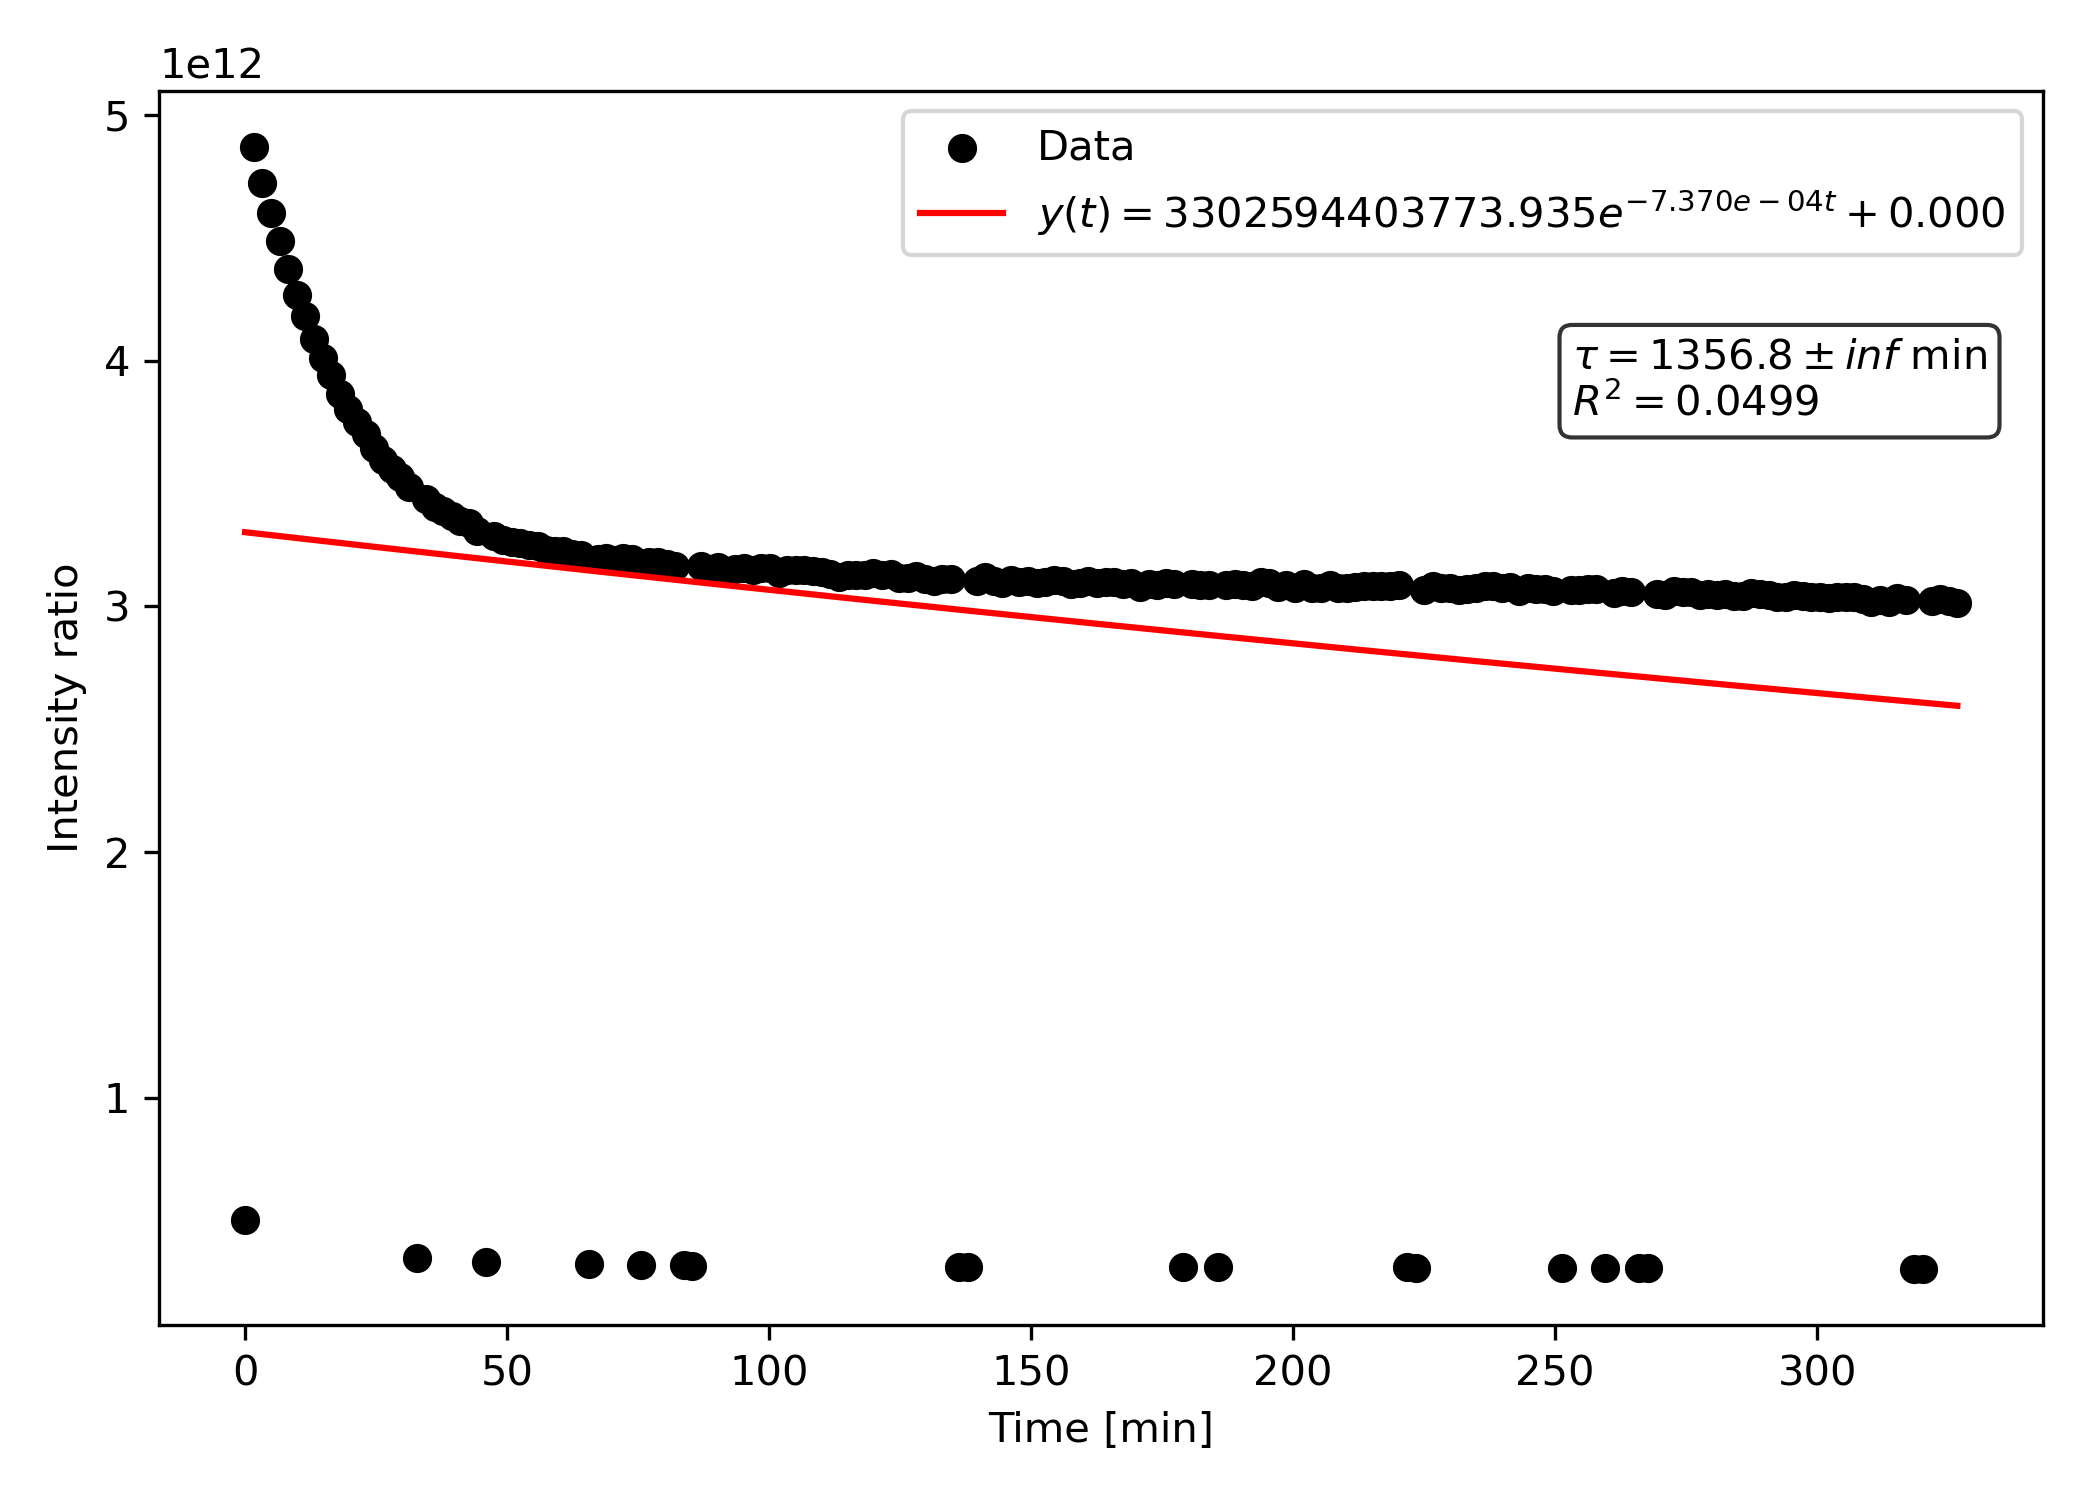
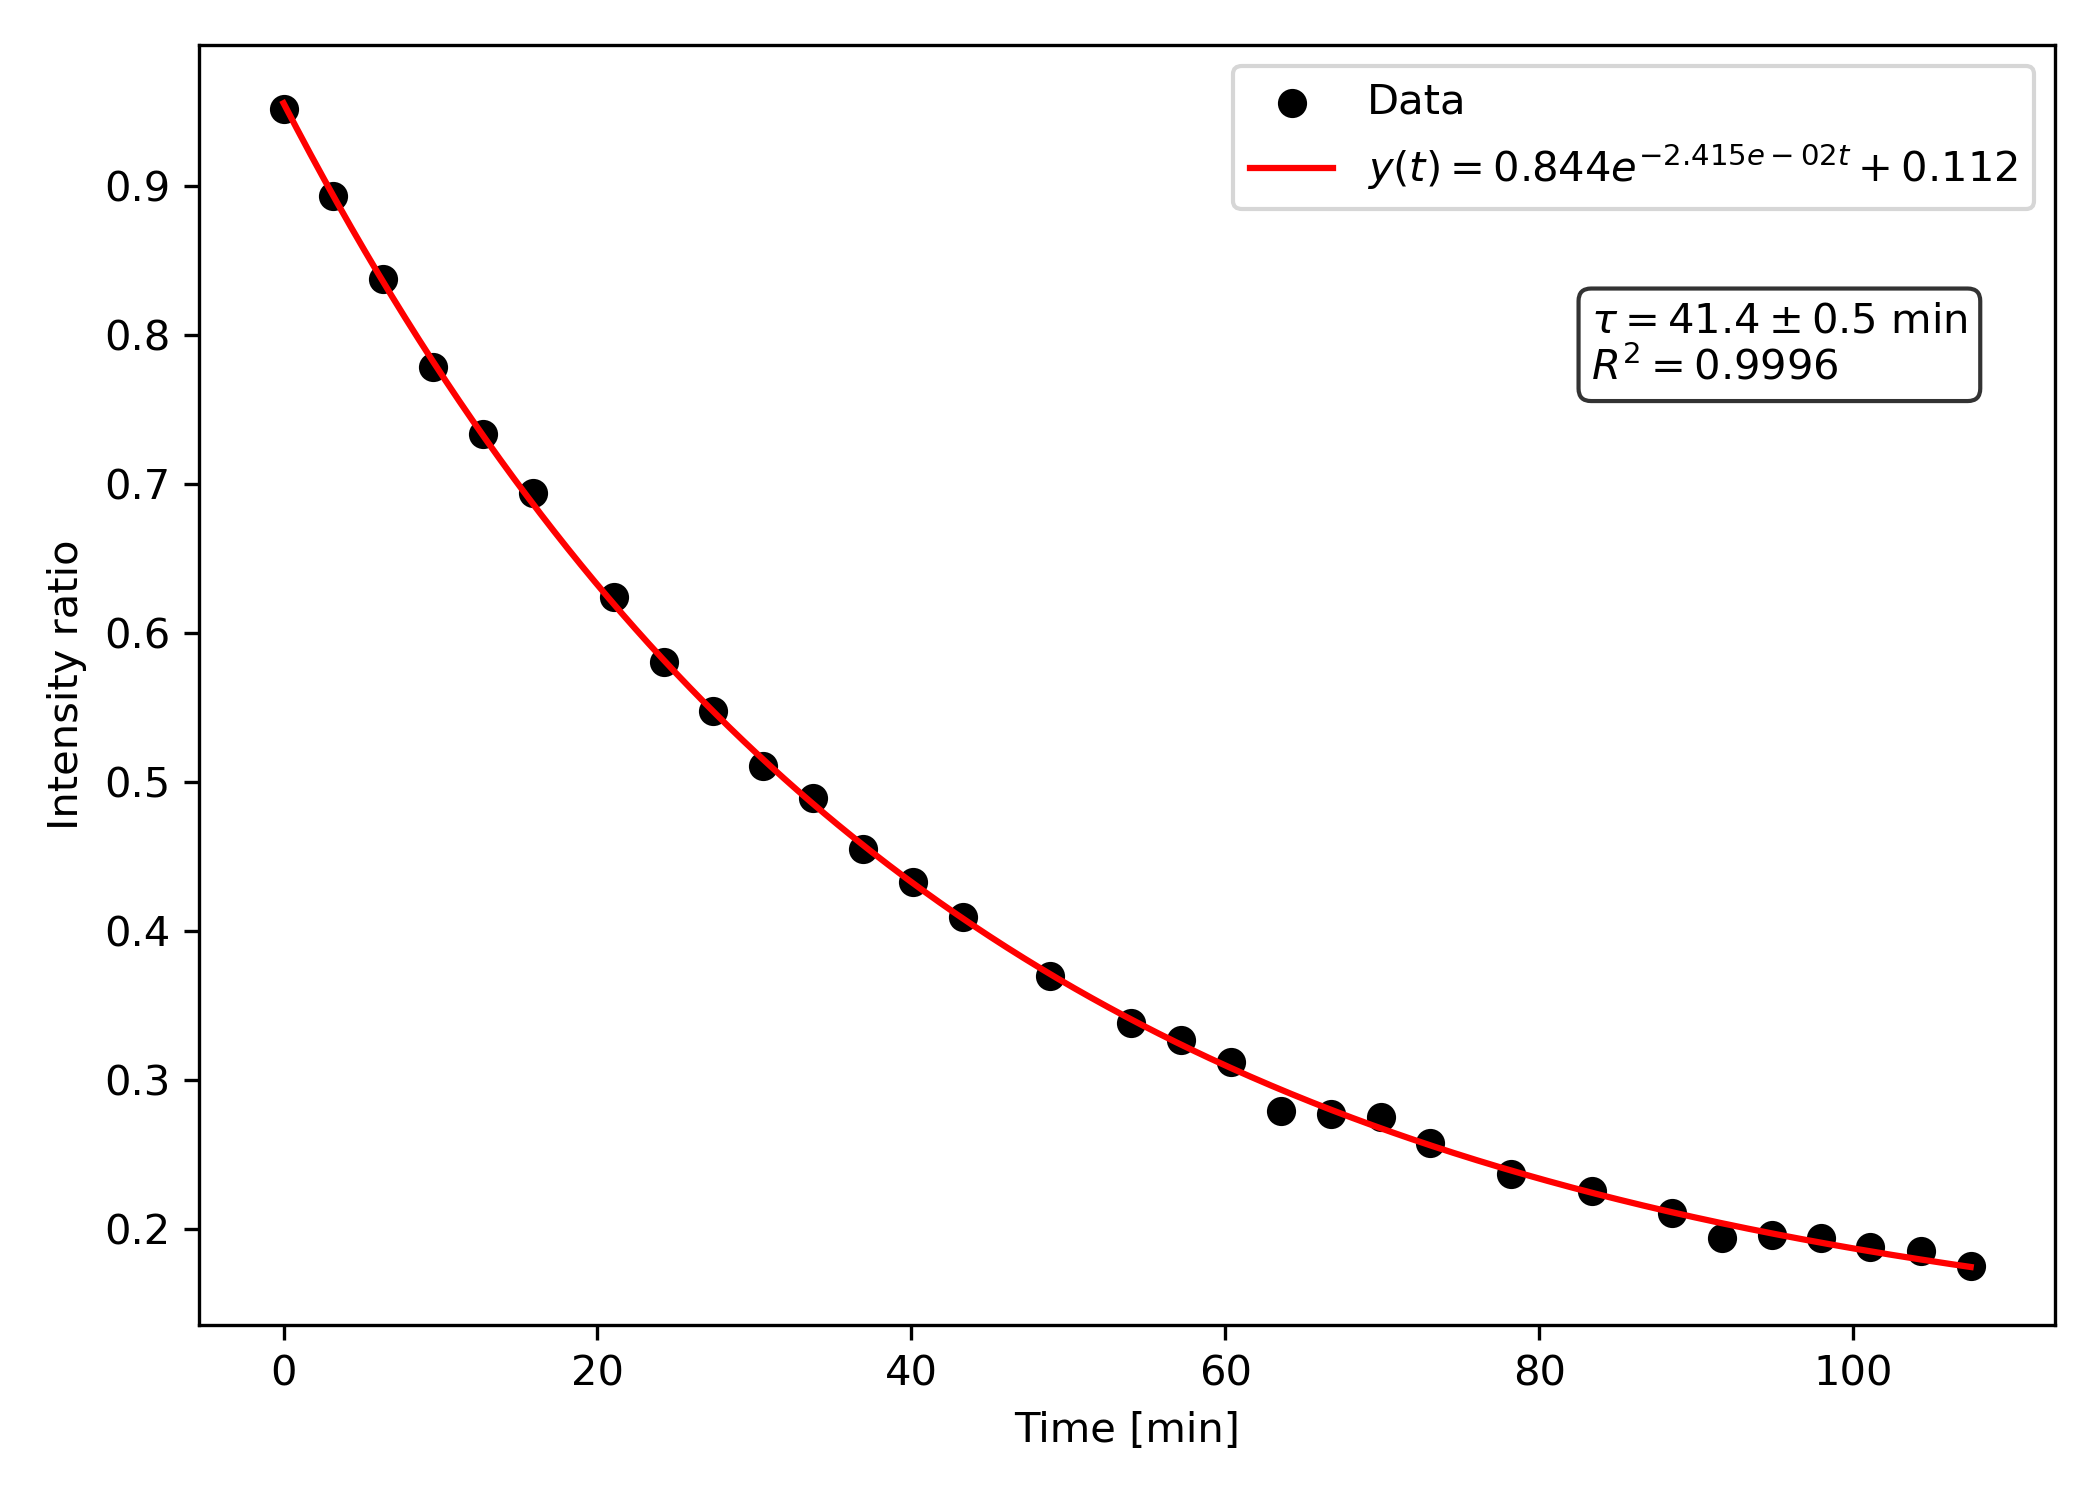
many things 2.0

diff --git a/MD_simulations/scripts/PCA.py b/MD_simulations/scripts/PCA.py
@@ -10,6 +10,8 @@ import matplotlib
 matplotlib.use("Agg")
 from scipy.stats import gaussian_kde
 from scipy.ndimage import gaussian_filter
+from scipy.spatial import ConvexHull
+from matplotlib.path import Path
 
 cmap = plt.get_cmap("viridis")
 
@@ -254,6 +256,7 @@ H_smooth = gaussian_filter(H, sigma=sigma)
 F = -kB * T * np.log(H_smooth + 1e-12)  # avoid log(0)
 # shift minimum free energy to zero
 F = F - np.nanmin(F)
+
 plt.figure(figsize=(8, 4))
 plt.imshow(F.T, origin='lower',
            extent=[xedges[0], xedges[-1],
@@ -277,18 +280,71 @@ X, Y = np.meshgrid(xgrid, ygrid)
 grid_points = np.vstack([X.ravel(), Y.ravel()])
 
 P = kde(grid_points).reshape(100, 100)  # probability density
+cutoff = np.percentile(P, 1)  # bottom 1%
+mask_lowP = P < cutoff # mask low-probability regions
+
+# optional: convex hull mask
+points = np.vstack([pc1, pc2]).T
+hull = ConvexHull(points)
+hull_path = Path(points[hull.vertices])
+grid_points_2d = np.vstack([X.ravel(), Y.ravel()]).T
+inside = hull_path.contains_points(grid_points_2d).reshape(X.shape)
+mask = mask_lowP | (~inside)
+
 F = -kB * T * np.log(P + 1e-12)
 F = F - np.nanmin(F)  # normalize to min=0
-F[P < 1e-10] = np.nan  # mask very low probabilities
+# Apply mask
+F_masked = np.ma.masked_where(mask, F)
+
+# marginals
+dx = xgrid[1] - xgrid[0]
+dy = ygrid[1] - ygrid[0]
+P_x = np.sum(P, axis=0) * dy
+P_y = np.sum(P, axis=1) * dx
+# Normalize
+P_x /= np.max(P_x)
+P_y /= np.max(P_y)
+
 
 # Contour plot (standard for FEL)
-plt.figure(figsize=(6, 5))
-cs = plt.contourf(X, Y, F, levels=20)
-plt.colorbar(cs, label="Free energy (kJ/mol)")
-plt.xlabel("PC1")
-plt.ylabel("PC2")
-plt.tight_layout()
-plt.savefig("fel_kde.png", dpi=300)
+fig = plt.figure(figsize=(7, 7))
+# Grid layout
+gs = fig.add_gridspec(
+    2, 2,
+    width_ratios=[4, 1],
+    height_ratios=[1, 4],
+    hspace=0.05,
+    wspace=0.05
+)
+ax_fel = fig.add_subplot(gs[1, 0])
+ax_top = fig.add_subplot(gs[0, 0], sharex=ax_fel)
+ax_right = fig.add_subplot(gs[1, 1], sharey=ax_fel)
+
+# FEL 
+cs = ax_fel.contourf(X, Y, F, levels=20)
+cbar = fig.colorbar(cs, ax=ax_fel)
+cbar.set_label("Free energy (kJ/mol)")
+
+ax_fel.set_xlabel("PC1")
+ax_fel.set_ylabel("PC2")
+
+# Top marginal (PC1)
+ax_top.plot(xgrid, P_x)
+ax_top.set_ylabel("P(PC1)")
+ax_top.tick_params(labelbottom=False)
+
+# Right marginal (PC2)
+ax_right.plot(P_y, ygrid)
+ax_right.set_xlabel("P(PC2)")
+ax_right.tick_params(labelleft=False)
+
+# Clean up spines
+ax_top.spines["right"].set_visible(False)
+ax_top.spines["top"].set_visible(False)
+ax_right.spines["right"].set_visible(False)
+ax_right.spines["top"].set_visible(False)
+
+plt.savefig("fel_with_marginals.png", dpi=300, bbox_inches="tight")
 plt.close()
 
 ### 3 Extract timepoints of representative structures ###

diff --git a/wet_lab_analysis/scripts/specific_activity_calculation.py b/wet_lab_analysis/scripts/specific_activity_calculation.py
@@ -115,6 +115,7 @@ def plot_activity_boxplot(df_summary, df_replicates, tukey_df, outfile_png):
     ax.set_ylabel("Specific activity (U/mg)")
     ax.set_title("Enzyme activities")
 
+    '''
     # Add significance stars from Tukey
     legend_handles = []
     if not tukey_df.empty and "reject" in tukey_df.columns:
@@ -147,7 +148,7 @@ def plot_activity_boxplot(df_summary, df_replicates, tukey_df, outfile_png):
         ]
 
         ax.legend(handles=legend_handles, loc='upper right', fontsize='small', handlelength=0, handletextpad=0.2)
-
+    '''
     fig.tight_layout()
     fig.savefig(outfile_png, dpi=300)
     plt.close(fig)
